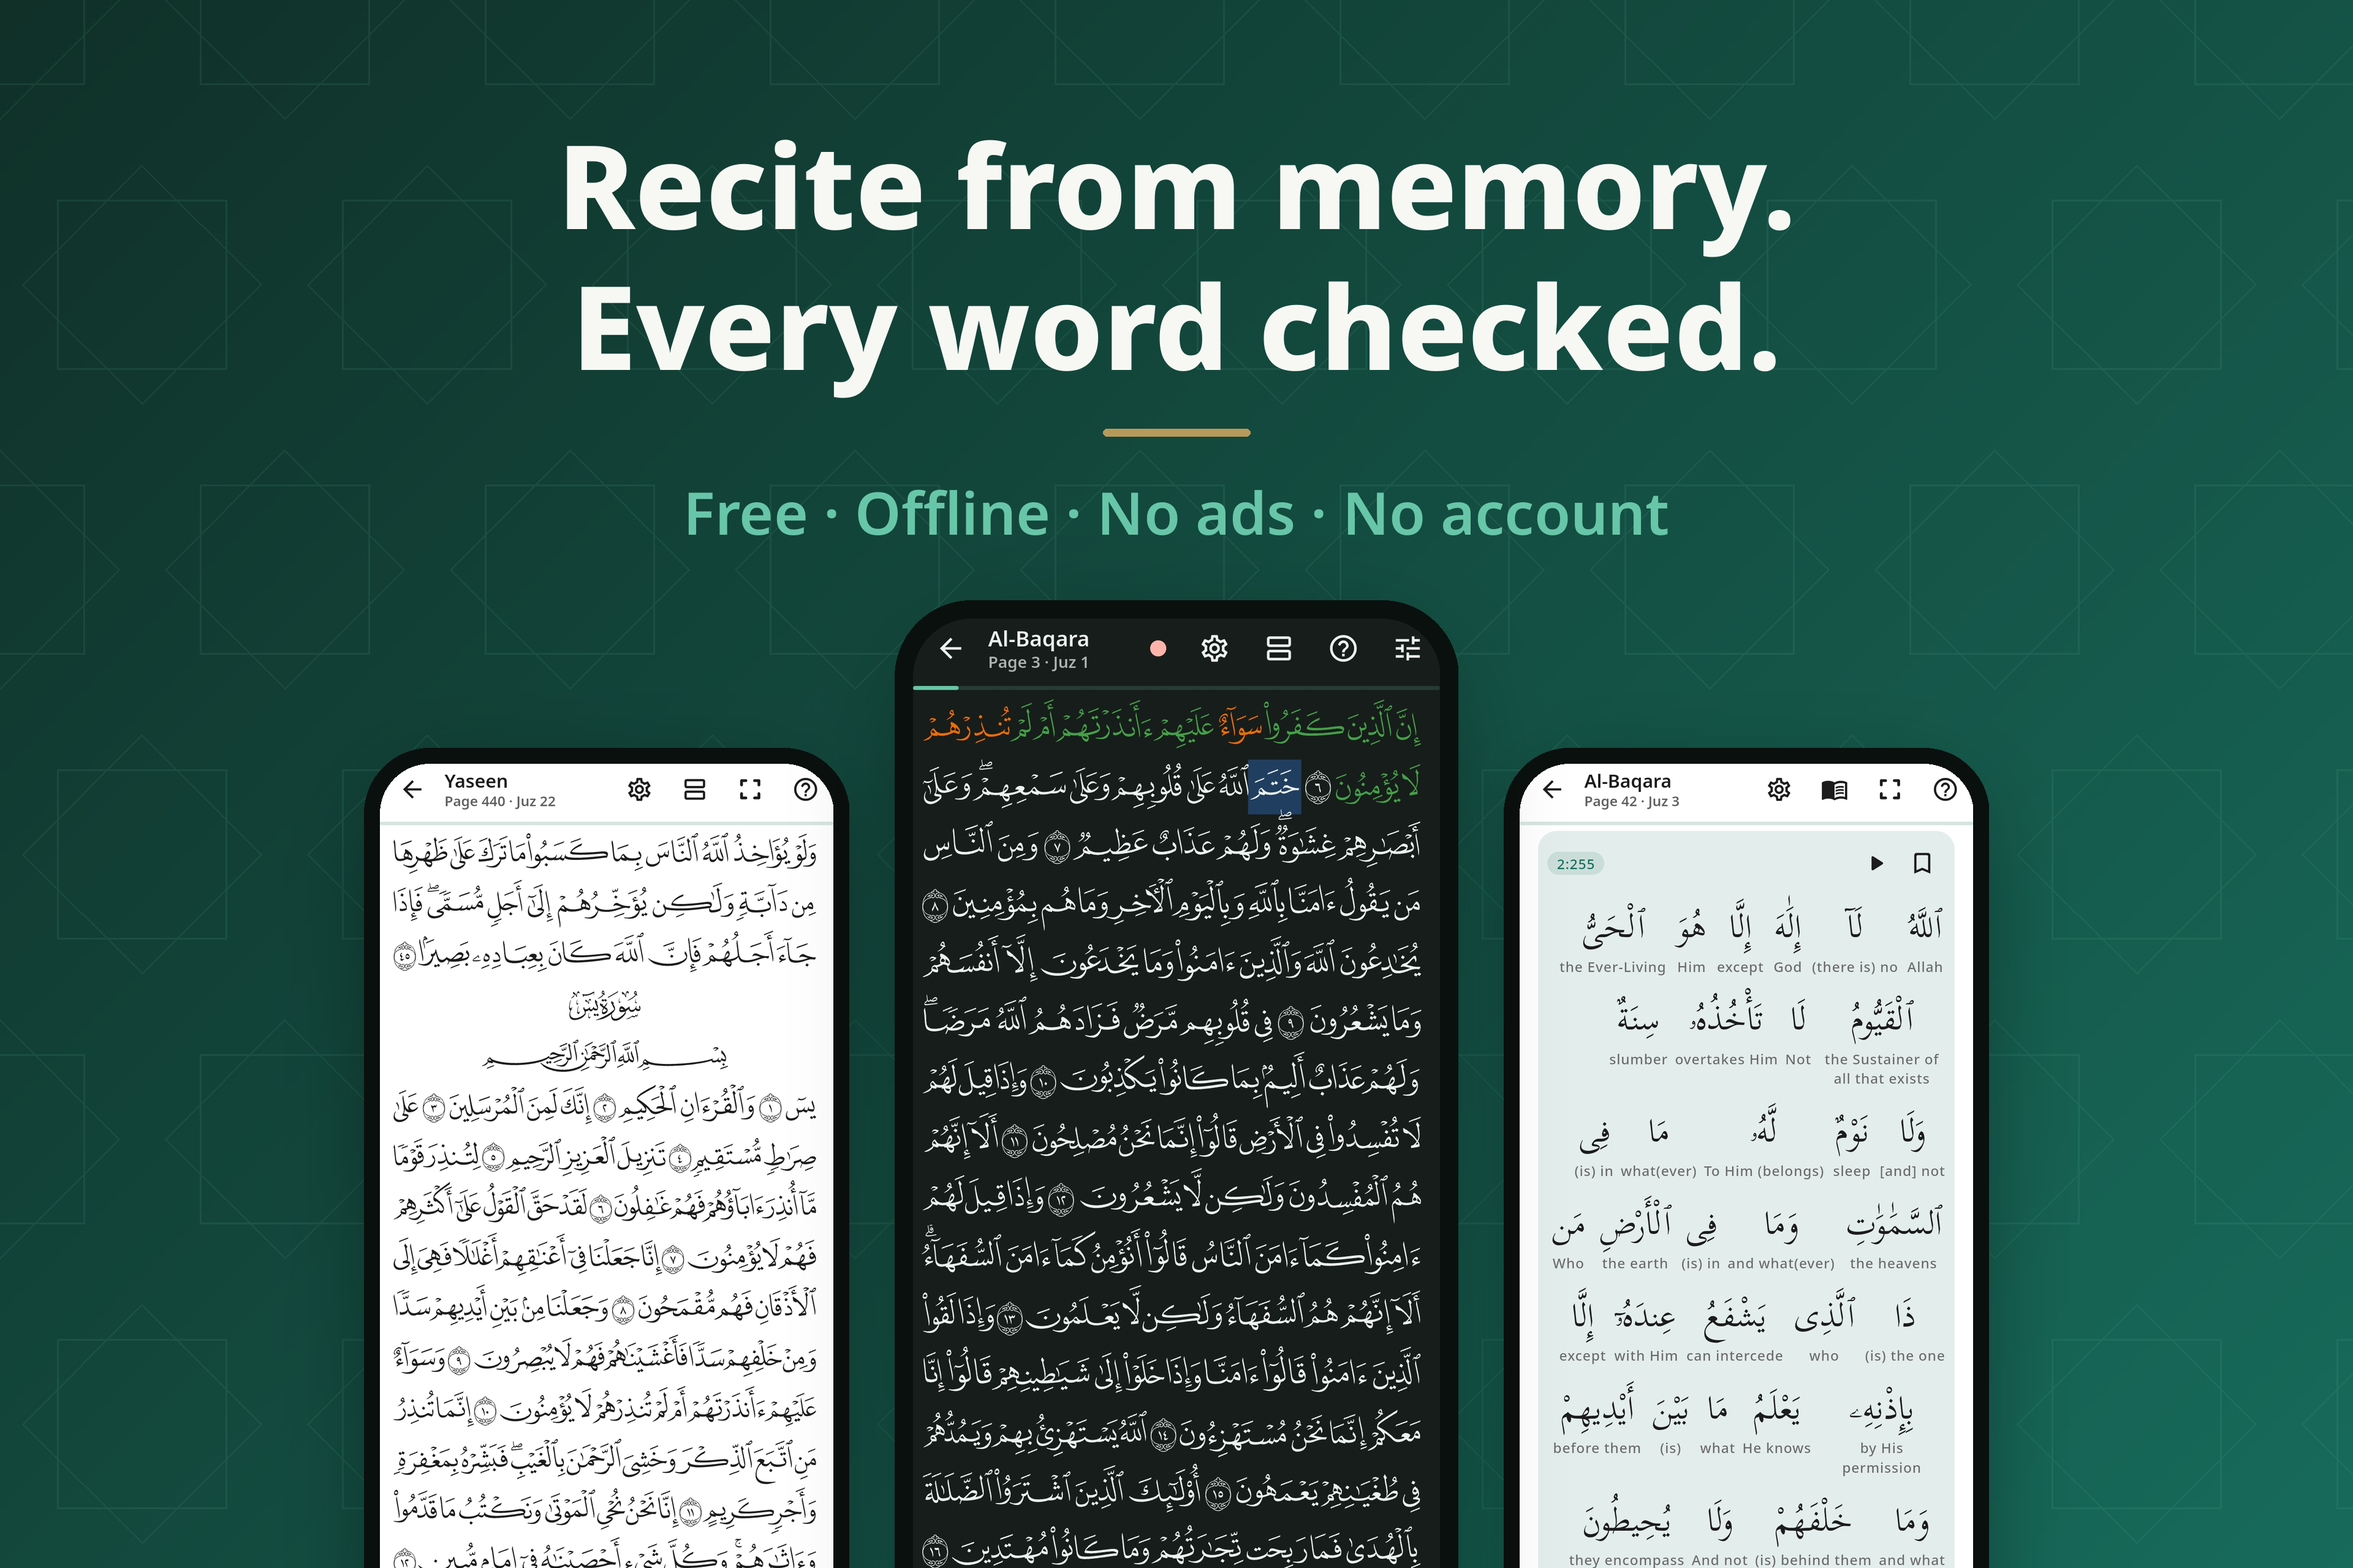
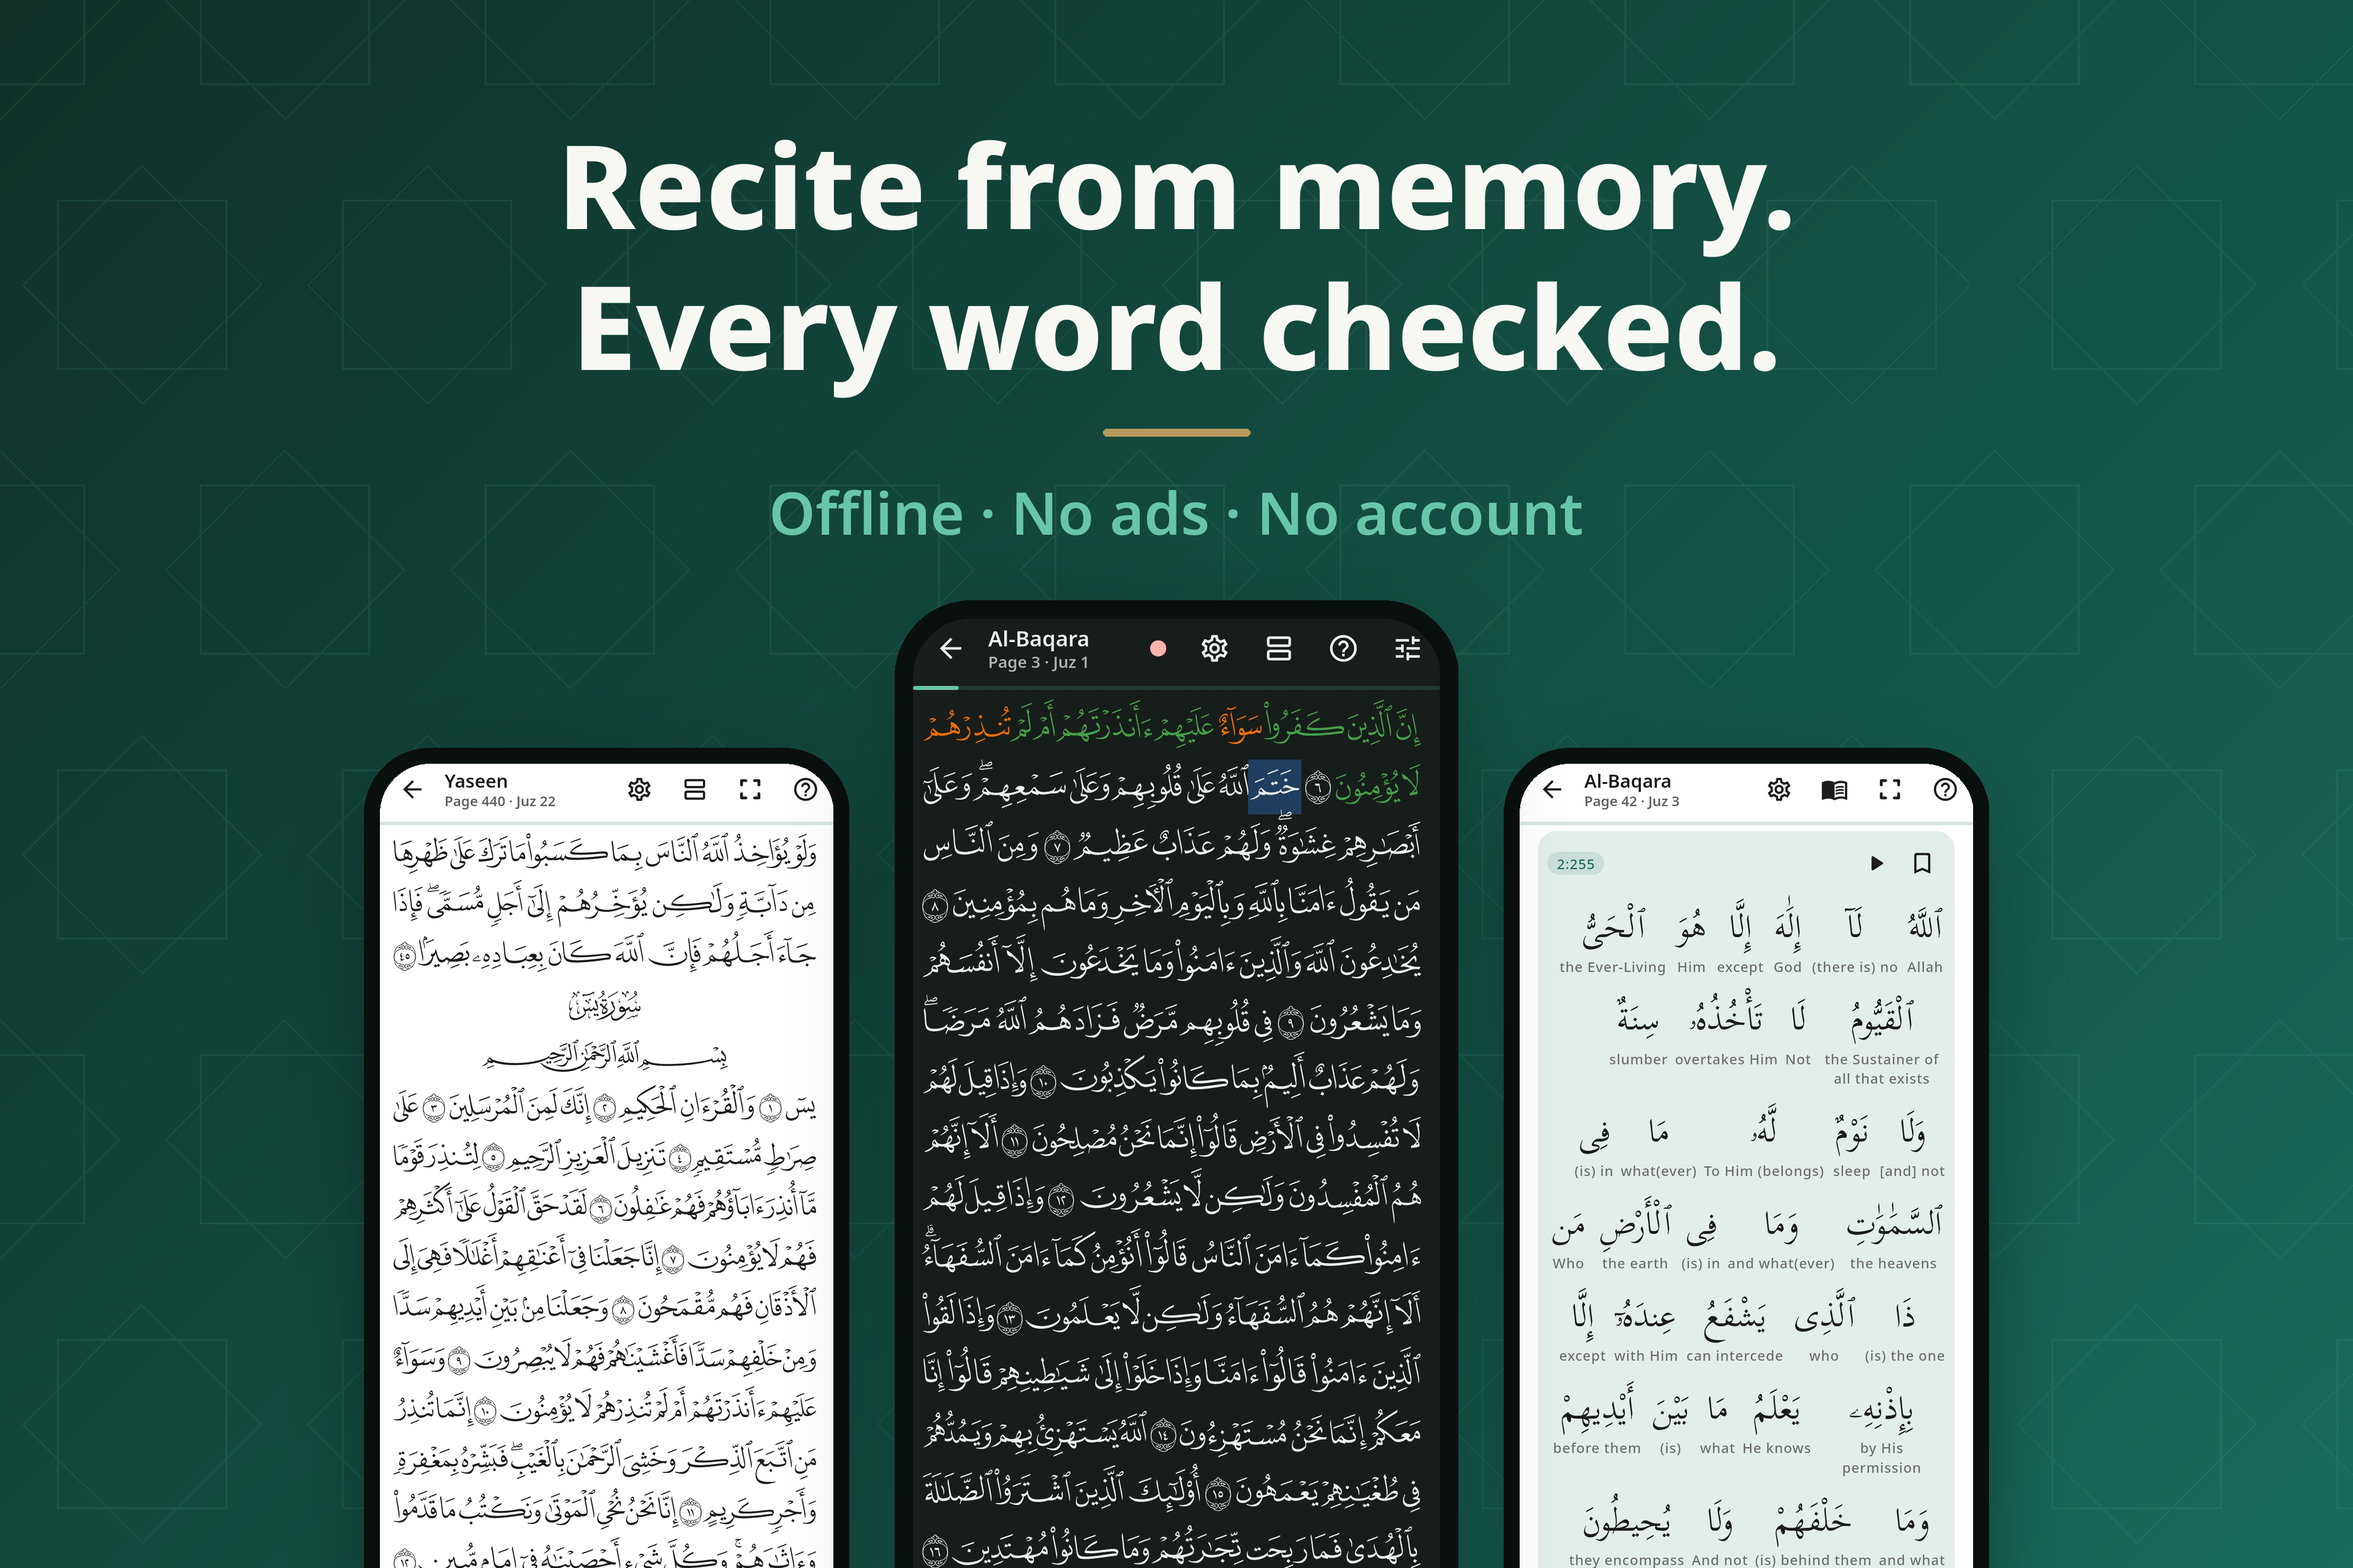
App Store search results image without "Free" (guideline 2.3.14: no pricing in creative assets), English and Chinese

Changed region(s): [[0.2812, 0.3125, 0.7188, 0.3438]]

diff --git a/tool/make_app_store_header.py b/tool/make_app_store_header.py
@@ -122,8 +122,8 @@ def header():
 # The search results image's text in each listing language that has one
 # (the header has none): two lines and the tags.
 SEARCH_TEXT = {
-    "en-US": ("Recite from memory.", "Every word checked.", "Free · Offline · No ads · No account"),
-    "zh-Hans": ("凭记忆诵读。", "每个词都经过检查。", "免费 · 离线 · 无广告 · 无需账户"),
+    "en-US": ("Recite from memory.", "Every word checked.", "Offline · No ads · No account"),
+    "zh-Hans": ("凭记忆诵读。", "每个词都经过检查。", "离线 · 无广告 · 无需账户"),
 }
 
 # Chinese in the system's Noto Sans CJK (its SC face).
